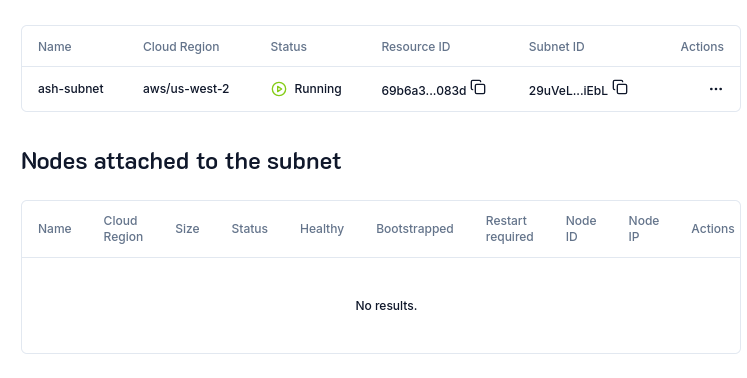
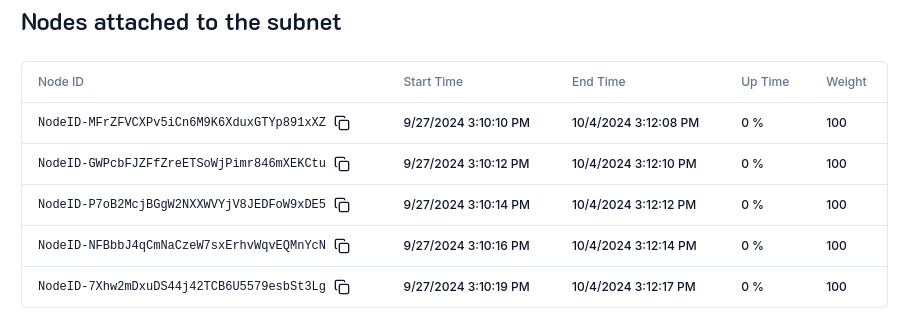
feat: add more screenshots

diff --git a/docs/console/guides/local-network/subnet.md b/docs/console/guides/local-network/subnet.md
@@ -196,7 +196,7 @@ After a few minutes, we can get the Subnet ID and attached nodes:
 
 ![Ash Console subnet attached nodes](/img/ash-console-devnet-subnet-nodes.png)
 
-Notice that upon Subnet creation, the attached nodes **table is empty**. This is because the Avalanche nodes have not been restarted yet. The nodes will automatically join the Subnet after the restart.
+Notice that upon Subnet creation, the nodes' **uptime is 0%*. This is because the Avalanche nodes' configuration has been updated to track the Subnet but they have not been restarted so it has not been taken into account yet.
 
 We can confirm this by navigating to the `Ressources` tab and see that the `Restart required` field is set to `Yes` for each node:
 
@@ -204,7 +204,9 @@ We can confirm this by navigating to the `Ressources` tab and see that the `Rest
 
 After restarting every node by clicking on `...` and then `Restart` button, the nodes will join the Subnet.
 
-After a few minutes, we can see that the nodes are now attached to the Subnet.
+After a few minutes, we can see that the nodes' uptime is updated:
+
+![Ash Console subnet attached nodes bis](/img/ash-console-devnet-subnet-nodes-bis.png)
 
 </TabItem>
 
@@ -287,3 +289,7 @@ See the [reference](/docs/console/reference/resource-management) for more inform
 
 </TabItem>
 </Tabs>
+
+:::tip
+Checkout [**Contract Deployment**](/docs/toolkit/ansible-avalanche-collection/tutorials/contract-deployment) to learn how to deploy a smart contract on your Subnet EVM L1.
+:::
